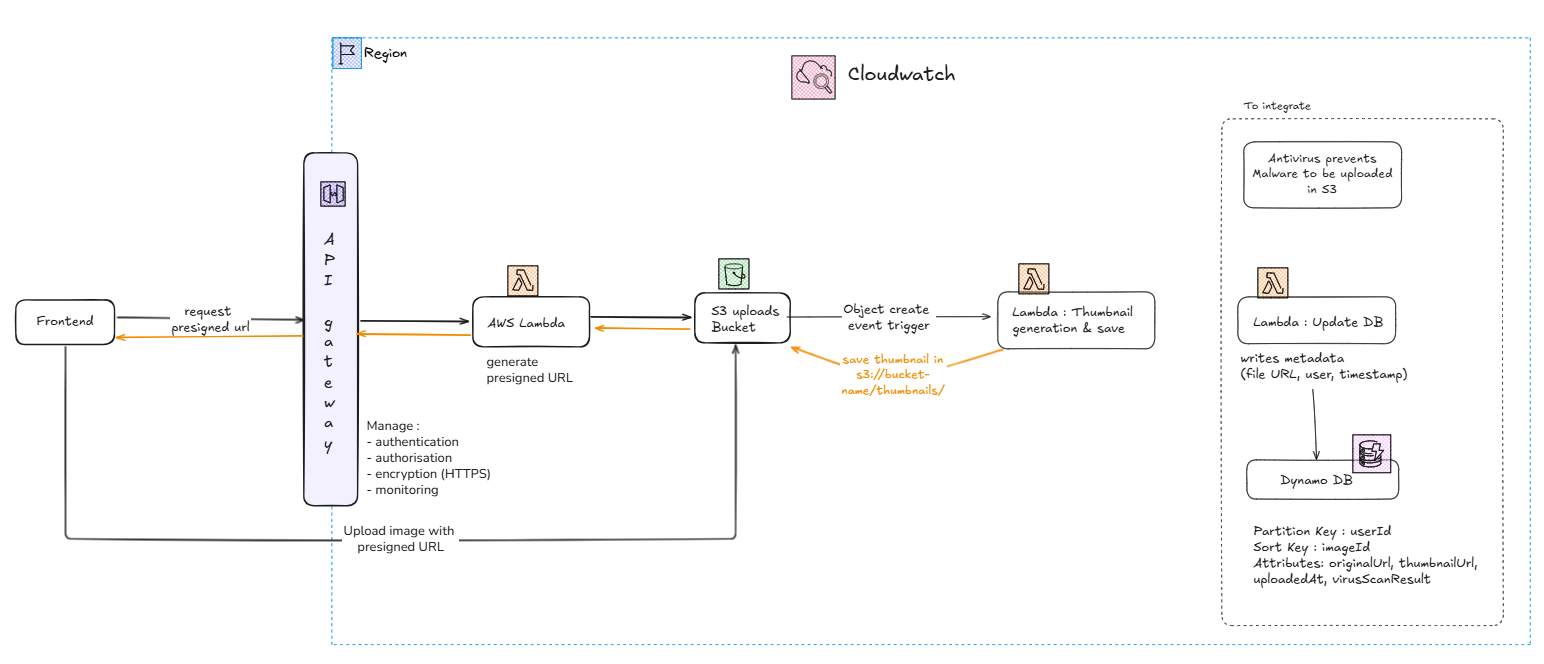
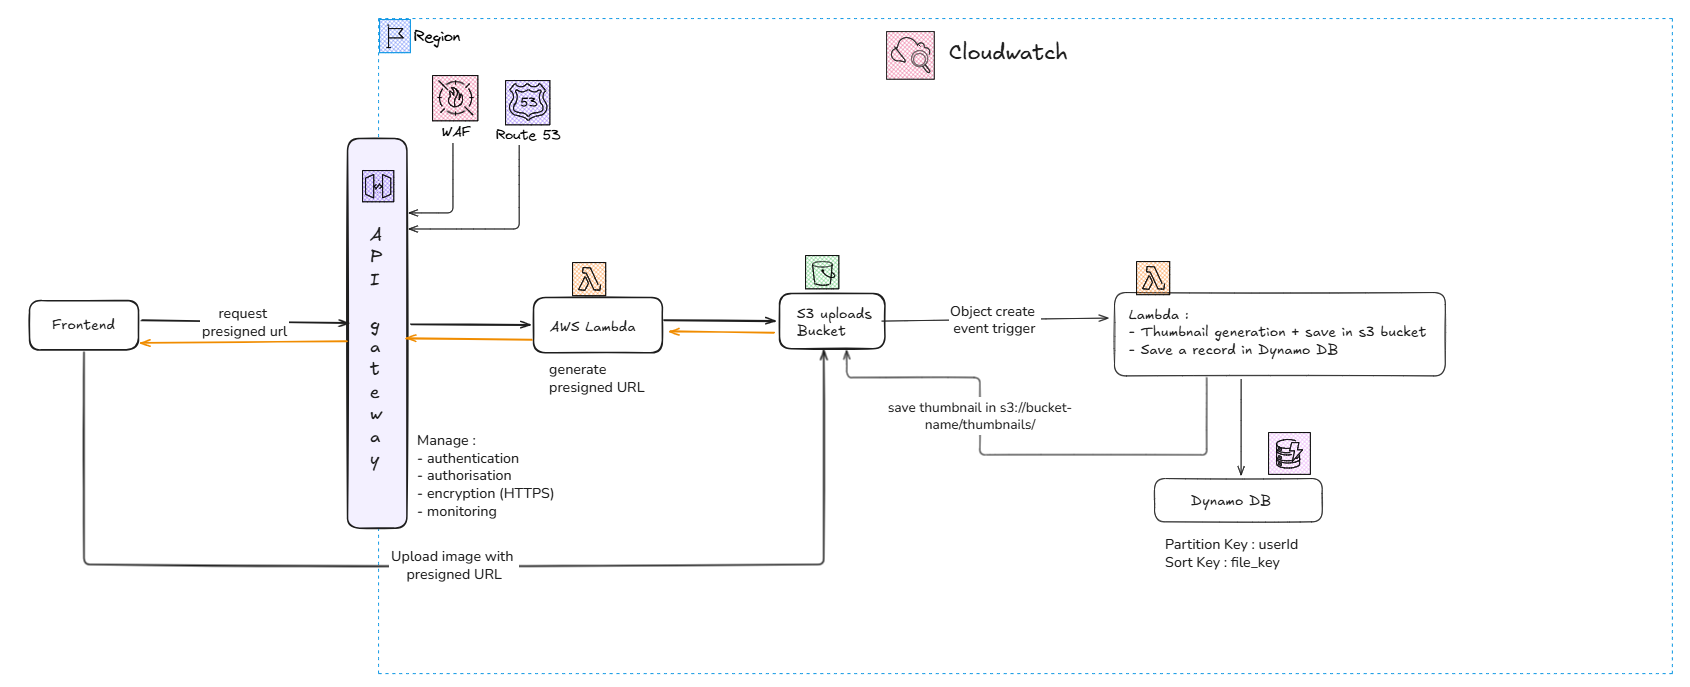
feat: lambda generate thumbnail and save metadata in dynamo db

diff --git a/lambda_process_uploaded_file/processUploadedFile.js b/lambda_process_uploaded_file/processUploadedFile.js
@@ -1,0 +1,63 @@
+const AWS = require('aws-sdk');
+const S3 = new AWS.S3();
+const DynamoDB = new AWS.DynamoDB.DocumentClient();
+
+const sharp = require('sharp');
+
+exports.handler = async (event) => {
+    try {
+        // Extract bucket and key from the S3 event
+        const bucket = event.Records[0].s3.bucket.name;
+        const fileKey = event.Records[0].s3.object.key;
+
+        // Extract user_id from the key or metadata (adjust this based on your naming convention)
+        // Example: user123/background.png -> userId = user123
+        const keyParts = fileKey.split('/');
+        const userId = keyParts[1];
+        const filename = keyParts[keyParts.length - 1];
+
+        // Download original image
+        const originalObject = await S3.getObject({ Bucket: bucket, Key: fileKey }).promise();
+        const originalBuffer = originalObject.Body;
+
+        // Resize image to 200x200 thumbnail
+        const thumbnailBuffer = await sharp(originalBuffer)
+            .resize(200, 200)
+            .toBuffer();
+
+        // Define thumbnail key
+        const thumbKey = `${process.env.THUMBNAIL_FOLDER}${userId}/${filename}`;
+
+        // Upload thumbnail back to S3
+        await S3.putObject({
+            Bucket: bucket,
+            Key: thumbKey,
+            Body: thumbnailBuffer,
+            ContentType: originalObject.ContentType
+        }).promise();
+
+        // Save record in DynamoDB
+        const tableName = process.env.DYNAMO_TABLE; 
+        const item = {
+            file_key: fileKey, // Partition key
+            user_id: userId, // Sort key           
+            thumbnail_key: thumbKey
+        };
+
+        await DynamoDB.put({
+            TableName: tableName,
+            Item: item
+        }).promise();
+
+        return {
+            statusCode: 200,
+            body: `Thumbnail saved to ${bucket}/${thumbKey} and metadata recorded in DynamoDB`
+        };
+    } catch (err) {
+        console.error(err);
+        return {
+            statusCode: 500,
+            body: JSON.stringify({ error: err.message })
+        };
+    }
+};

diff --git a/lambda_get_presigned_url/getPresignedUrl.js b/lambda_get_presigned_url/getPresignedUrl.js
@@ -32,21 +32,26 @@ exports.handler = async (event) => {
     }
 
     const query = event.queryStringParameters || {};
-    const originalFilename = query.filename;
-    const extension = query.ext || "";
 
-    if (!originalFilename) {
+    // Client must send userId, filename, extension
+    const userId = query.userId;
+    const originalFilename = query.filename;
+    const extension = query.ext;
+
+    if (!userId || !originalFilename || !extension) {
         return {
             statusCode: 400,
             headers: corsHeaders,
-            body: JSON.stringify({ error: "Missing filename in query parameters" }),
+            body: JSON.stringify({ error: "Body is malformed" })
         };
     }
 
     try {
         // Generate a random unique filename
         const randomId = crypto.randomBytes(16).toString("base64url"); // URL-safe base64
-        const fileKey = `${UPLOAD_FOLDER}${randomId}_${originalFilename}${extension ? "." + extension : ""}`;
+
+        // Build key: uploads/<user_id>/<randomId>_<filename>.<extension>
+        const fileKey = `${UPLOAD_FOLDER}${userId}/${randomId}_${originalFilename}${extension ? "." + extension : ""}`;
 
         // Generate presigned PUT URL
         const presignedUrl = s3.getSignedUrl("putObject", {

diff --git a/README.md b/README.md
@@ -15,10 +15,18 @@
 
 **Reliability**
 
+- 
+- 
+
 **Scalability**
+
+- 
+- 
 
 **Security**
 
+- 
+- 
 
 ## 🔍 Gotchas -  Lessons learned
 
